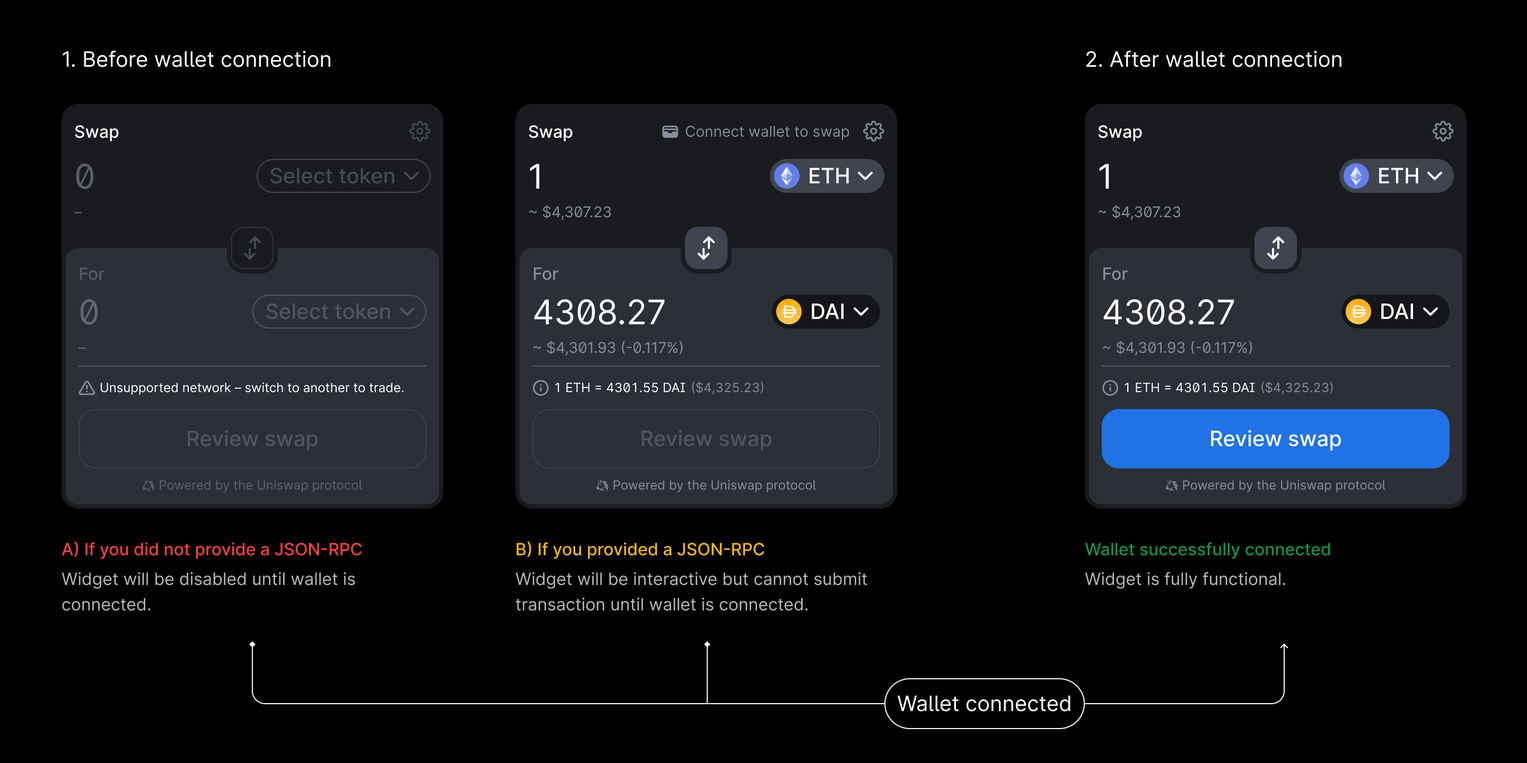
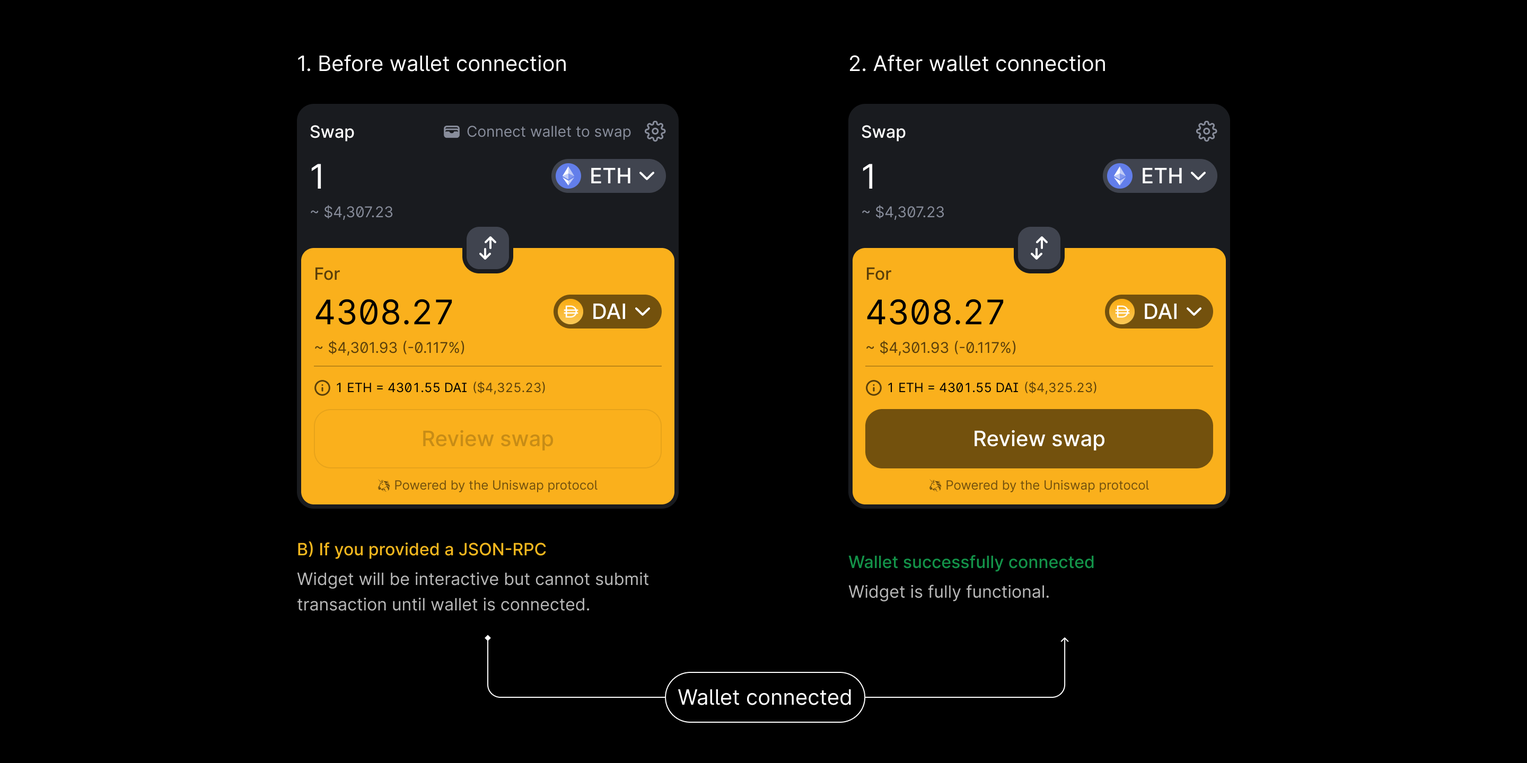
docs: [widgets] update to include built-in wallet connection flow (#407)
* docs: update widgets doc to describe built-in wallet connect functionality / web3 in a box. WIP

* widgets API reference update provider

* Update swap-widget docs to make provider & rpc endpoint optional

* Update API reference

* Add widgets-demo

* Add recommended provider, jsonRpc example

* Fix margins with live preview of widget

* Update

* Undo auto-lint changes

* Add note directing iframe integrators to swap widget

* Update states - light mode

* Update jsonRpcEndpoint prop + add defaultChainId prop

* update w3r github link

* rename onClickConnectWallet to onConnectWalletClick

* add hideConnectionUI bool prop

* add note about severe ratelimiting + unreliable of public RPCs

* update onConnectWalletClick

* nit

* fix width

* Add old API reference in deprecated page

* nit

diff --git a/SDK_versioned_docs/version-3.0.0/widgets/swap-widget-api.md b/SDK_versioned_docs/version-3.0.0/widgets/swap-widget-api.md
@@ -1,38 +1,40 @@
 ---
 id: swap-widget-api
-slug: swap-widget/api
-title: Swap Widget API Reference
+slug: swap-widget/api/v2
+title: Swap Widget API V2 Reference
 sidebar_label: API Reference
 sidebar_position: 3
 ---
 
-# Swap Widget API Reference
+# Swap Widget API V2 Reference
 
 <div className="widget-api">
 
-## Required Parameters {#required-parameters}
+## Recommended Parameters {#recommended-parameters}
 
-| Prop Name         | Prop Type | Default Value | Description                                                                                                                                                                                                                                                                                                                                                                              |
-| ----------------- | --------- | ------------- | ---------------------------------------------------------------------------------------------------------------------------------------------------------------------------------------------------------------------------------------------------------------------------------------------------------------------------------------------------------------------------------------- |
-| `jsonRpcEndpoint` | `string`  | `undefined`   | URI of your JSON-RPC endpoint. Strongly recommended in order to provide trade quotes prior to the user connecting a wallet. If none is provided, the widget will be completely disabled until the user connects a wallet. Once a wallet is connected, the widget will use the wallet’s JSON-RPC. See [Understanding the Swap Widget States](../swap-widget#understanding-widget-states). |
-| `provider`        | `any`     | `undefined`   | An [EIP-1193](https://eips.ethereum.org/EIPS/eip-1193) provider. This is required to swap.                                                                                                                                                                                                                                                                                               |
+| Prop Name       | Prop Type                              | Default Value                 | Description                                                                                                                                                                                                                                                                                                               |
+| --------------- | -------------------------------------- | ----------------------------- | ------------------------------------------------------------------------------------------------------------------------------------------------------------------------------------------------------------------------------------------------------------------------------------------------------------------------- |
+| `jsonRpcUrlMap` | `{ [chainId: number]: string[] }`      | `JSON_RPC_FALLBACK_ENDPOINTS` | Mapping of your JSON-RPC endpoint URLs indexed by chainId, used to provide trade quotes prior to the user connecting a wallet. If none is provided for a chain, the widget will fallback to public JSON-RPC endpoints, which are unreliable and rate-limited. See [JSON-RPC Endpoints](../swap-widget#json-rpc-endpoint). |
+| `provider`      | `JsonRpcProvider` or `Eip1193Provider` | `undefined`                   | An [EIP-1193](https://eips.ethereum.org/EIPS/eip-1193) provider. See [Web3 provider](../swap-widget#web3-provider).                                                                                                                                                                                                       |
 
 ## Optional Parameters {#optional-parameters}
 
-| Prop Name                   | Prop Type                     | Default Value           | Description                                                                                                                                                                                                                                                                                                                                                                                                                                                                                                                          |
-| --------------------------- | ----------------------------- | ----------------------- | ------------------------------------------------------------------------------------------------------------------------------------------------------------------------------------------------------------------------------------------------------------------------------------------------------------------------------------------------------------------------------------------------------------------------------------------------------------------------------------------------------------------------------------ |
-| `convenienceFee`            | `number`                      | `undefined`             | Optionally, you may charge a convenience fee on top of swaps executed through your web app. The allowed range is 1 to 100 basis points (inclusive of 100) consistent with the Uniswap v3 Periphery contract.                                                                                                                                                                                                                                                                                                                         |
-| `convenienceFeeRecipient`   | `{[chainId: number]: string}` | `undefined`             | The address to receive the convenience fee on each network. Required if `convenienceFee` is provided.                                                                                                                                                                                                                                                                                                                                                                                                                                |
-| `defaultInputTokenAddress`  | `{[chainId: number]: string}` | `string` or `'NATIVE'`  | Address of the token to be selected by default in the input field (e.g. USDC) for each network chain ID. If left empty the widget will use the native token of the connected chain as default. This can be explicitly defined by the special string `'NATIVE'`. For convenience you may pass a single string instead of a `chainId` mapping. In this case, the widget will assume that string corresponds to an L1 Ethereum address with `chaindId=1`. Any addresses provided in this parameter must be included in the `tokenList`. |
-| `defaultInputAmount`   | `number`                      | `0`                     | Default amount for the input field (e.g. 1 ETH). This value will respect the decimals of the `defaultInputTokenAddress`. This parameter is valid only if `defaultInputTokenAddress` is also set. This parameter is mutually exclusive with `defaultOutputAmount`, so you may set only one of `defaultInputAmount` and `defaultOutputAmount`.                                                                                                                                                                          |
-| `defaultOutputTokenAddress` | `{[chainId: number]: string}` | `string` or `undefined` | Address of the token to be selected by default in the input field (e.g. USDC) for each network chain ID. None if left empty. Any addresses provided in this parameter must be included in the `tokenList`.                                                                                                                                                                                                                                                                                                                           |
-| `defaultOutputAmount`  | `number`                      | `0`                     | Default amount for the input field (e.g. 100 USDC). This value will respect the decimals of the `defaultOutputTokenAddress`. This parameter is mutually exclusive with `defaultInputAmount`, so you may set only one of `defaultInputAmount` and `defaultOutputAmount`.                                                                                                                                                                                                                                               |
-| `locale`                    | `SupportedLocale`             | `en-US`                 | Specifies an explicit locale to use for the widget interface. This can be set to one of the values exported by the library in [`SUPPORTED_LOCALES`](https://github.com/Uniswap/widgets/blob/main/src/constants/locales.ts).                                                                                                                                                                                                                                                                                                        |
-| `onConnectWallet`           | `() => void`                  | `undefined`             | If passed, the “Connect your wallet” message will be clickable, and clicking it will trigger this handler function. This can be used to trigger your own wallet connection flow from the widget.                                                                                                                                                                                                                                                                                                                                     |
-| `onError`                   | `ErrorHandler`                | `undefined`             | An error handler which receives any errors that occur in the widget. This can be used for collecting error metrics.                                                                                                                                                                                                                                                                                                                                                                                                                  |
-| `theme`                     | `Theme`                       | `lightTheme`            | Specifies a custom theme (colors, font, and border radii). See [Customizing the Theme](../swap-widget#customizing-theme).                                                                                                                                                                                                                                                                                                                                                                                                            |
-| `tokenList`                 | `string`                      | `TokenInfo[]`           | Specifies the set of tokens that appear by default in the token selector list. Accepts either a URI of a token list as defined by the Token Lists standard, or an inline array of tokens. If none is provided, the Uniswap Labs default token list will be used. See [Customizing the Default Token List](../swap-widget#customizing-default-token-list).                                                                                                                                                                            |
-| `width`                     | `number` or `string`          | `360`                   | Specifies the width of the widget. If specified as a number, this is in pixels; otherwise, it is interpreted as a CSS `<length>` data type. Recommended width is 360px. Minimum width is 270px. See [Customizing the Width](../swap-widget#customizing-width).                                                                                                                                                                                                                                                                       |
+| Prop Name                   | Prop Type                                | Default Value           | Description                                                                                                                                                                                                                                                                                                                                                                                                                                                                                                                          |
+| --------------------------- | ---------------------------------------- | ----------------------- | ------------------------------------------------------------------------------------------------------------------------------------------------------------------------------------------------------------------------------------------------------------------------------------------------------------------------------------------------------------------------------------------------------------------------------------------------------------------------------------------------------------------------------------ |
+| `convenienceFee`            | `number`                                 | `undefined`             | Optionally, you may charge a convenience fee on top of swaps executed through your web app. The allowed range is 1 to 100 basis points (inclusive of 100) consistent with the Uniswap v3 Periphery contract.                                                                                                                                                                                                                                                                                                                         |
+| `convenienceFeeRecipient`   | `{[chainId: number]: string}`            | `undefined`             | The address to receive the convenience fee on each network. Required if `convenienceFee` is provided.                                                                                                                                                                                                                                                                                                                                                                                                                                |
+| `defaultChainId`            | `number`                                 | `1`                     | You may specify which chainId you want to prompt a user to connect their wallet to. [See a list of all chains supported on widget.](https://github.com/Uniswap/widgets/blob/main/src/constants/chains.ts#L4)                                                                                                                                                                                                                                                                                                                         |
+| `defaultInputTokenAddress`  | `{[chainId: number]: string}`            | `string` or `'NATIVE'`  | Address of the token to be selected by default in the input field (e.g. USDC) for each network chain ID. If left empty the widget will use the native token of the connected chain as default. This can be explicitly defined by the special string `'NATIVE'`. For convenience you may pass a single string instead of a `chainId` mapping. In this case, the widget will assume that string corresponds to an L1 Ethereum address with `chaindId=1`. Any addresses provided in this parameter must be included in the `tokenList`. |
+| `defaultInputAmount`        | `number`                                 | `0`                     | Default amount for the input field (e.g. 1 ETH). This value will respect the decimals of the `defaultInputTokenAddress`. This parameter is valid only if `defaultInputTokenAddress` is also set. This parameter is mutually exclusive with `defaultOutputTokenAmount`, so you may set only one of `defaultInputTokenAmount` and `defaultOutputTokenAmount`.                                                                                                                                                                          |
+| `defaultOutputTokenAddress` | `{[chainId: number]: string}`            | `string` or `undefined` | Address of the token to be selected by default in the input field (e.g. USDC) for each network chain ID. None if left empty. Any addresses provided in this parameter must be included in the `tokenList`.                                                                                                                                                                                                                                                                                                                           |
+| `defaultOutputAmount`       | `number`                                 | `0`                     | Default amount for the input field (e.g. 100 USDC). This value will respect the decimals of the `defaultOutputTokenAddress`. This parameter is mutually exclusive with `defaultInputTokenAmount`, so you may set only one `of defaultInputTokenAmount and` `defaultOutputTokenAmount`.                                                                                                                                                                                                                                               |
+| `hideConnectionUI`          | `boolean`                                | `false`                 | Hide the widget's built-in wallet connection UI, including the connected account chip & 'Connect wallet to swap' button.                                                                                                                                                                                                                                                                                                                                                                                                             |
+| `locale`                    | `SupportedLocale`                        | `en-US`                 | Specifies an explicit locale to use for the widget interface. This can be set to one of the values exported by the library in [`SUPPORTED_LOCALES`](https://github.com/Uniswap/widgets/blob/main/src/constants/locales.ts).                                                                                                                                                                                                                                                                                                          |
+| `onConnectWalletClick`      | `() => void` or `() => Promise<boolean>` | `undefined`             | If passed, allows you to add custom behavior when the user clicks on the 'Connect your wallet to swap' button. To manage displaying the widget's built-in wallet connection modal, return a resolved promise with `resolve(true/false)`.                                                                                                                                                                                                                                                                                             |
+| `onError`                   | `ErrorHandler`                           | `undefined`             | An error handler which receives any Javascript errors that occur in the widget. This can be used for collecting error metrics.                                                                                                                                                                                                                                                                                                                                                                                                       |
+| `theme`                     | `Theme`                                  | `lightTheme`            | Specifies a custom theme (colors, font, and border radii). See [Customizing the Theme](../swap-widget#customizing-theme).                                                                                                                                                                                                                                                                                                                                                                                                            |
+| `tokenList`                 | `string`                                 | `TokenInfo[]`           | Specifies the set of tokens that appear by default in the token selector list. Accepts either a URI of a token list as defined by the Token Lists standard, or an inline array of tokens. If none is provided, the Uniswap Labs default token list will be used. See [Customizing the Default Token List](../swap-widget#customizing-default-token-list).                                                                                                                                                                            |
+| `width`                     | `number` or `string`                     | `360`                   | Specifies the width of the widget. If specified as a number, this is in pixels; otherwise, it is interpreted as a CSS `<length>` data type. Recommended width is 360px. Minimum width is 300px. See [Customizing the Width](../swap-widget#customizing-width).                                                                                                                                                                                                                                                                       |
 
 ## Subscribing to Events
 

diff --git a/SDK_versioned_docs/version-3.0.0/widgets/swap-widget-api-v1.md b/SDK_versioned_docs/version-3.0.0/widgets/swap-widget-api-v1.md
@@ -1,0 +1,58 @@
+---
+id: swap-widget-api-v1
+slug: swap-widget/api/v1
+title: Swap Widget API V1 Reference
+sidebar_label: (Deprecated) V1 API Reference
+sidebar_position: 4
+---
+
+# Swap Widget API V1 Reference (Deprecated)
+
+<div className="widget-api">
+
+## Required Parameters {#required-parameters}
+
+| Prop Name         | Prop Type | Default Value | Description                                                                                                                                                                                                                                                                                                                                                                              |
+| ----------------- | --------- | ------------- | ---------------------------------------------------------------------------------------------------------------------------------------------------------------------------------------------------------------------------------------------------------------------------------------------------------------------------------------------------------------------------------------- |
+| `jsonRpcEndpoint` | `string`  | `undefined`   | URI of your JSON-RPC endpoint. Strongly recommended in order to provide trade quotes prior to the user connecting a wallet. If none is provided, the widget will be completely disabled until the user connects a wallet. Once a wallet is connected, the widget will use the wallet’s JSON-RPC. See [Understanding the Swap Widget States](../swap-widget#understanding-widget-states). |
+| `provider`        | `any`     | `undefined`   | An [EIP-1193](https://eips.ethereum.org/EIPS/eip-1193) provider. This is required to swap.                                                                                                                                                                                                                                                                                               |
+
+## Optional Parameters {#optional-parameters}
+
+| Prop Name                   | Prop Type                     | Default Value           | Description                                                                                                                                                                                                                                                                                                                                                                                                                                                                                                                          |
+| --------------------------- | ----------------------------- | ----------------------- | ------------------------------------------------------------------------------------------------------------------------------------------------------------------------------------------------------------------------------------------------------------------------------------------------------------------------------------------------------------------------------------------------------------------------------------------------------------------------------------------------------------------------------------ |
+| `convenienceFee`            | `number`                      | `undefined`             | Optionally, you may charge a convenience fee on top of swaps executed through your web app. The allowed range is 1 to 100 basis points (inclusive of 100) consistent with the Uniswap v3 Periphery contract.                                                                                                                                                                                                                                                                                                                         |
+| `convenienceFeeRecipient`   | `{[chainId: number]: string}` | `undefined`             | The address to receive the convenience fee on each network. Required if `convenienceFee` is provided.                                                                                                                                                                                                                                                                                                                                                                                                                                |
+| `defaultInputTokenAddress`  | `{[chainId: number]: string}` | `string` or `'NATIVE'`  | Address of the token to be selected by default in the input field (e.g. USDC) for each network chain ID. If left empty the widget will use the native token of the connected chain as default. This can be explicitly defined by the special string `'NATIVE'`. For convenience you may pass a single string instead of a `chainId` mapping. In this case, the widget will assume that string corresponds to an L1 Ethereum address with `chaindId=1`. Any addresses provided in this parameter must be included in the `tokenList`. |
+| `defaultInputAmount`        | `number`                      | `0`                     | Default amount for the input field (e.g. 1 ETH). This value will respect the decimals of the `defaultInputTokenAddress`. This parameter is valid only if `defaultInputTokenAddress` is also set. This parameter is mutually exclusive with `defaultOutputAmount`, so you may set only one of `defaultInputAmount` and `defaultOutputAmount`.                                                                                                                                                                                         |
+| `defaultOutputTokenAddress` | `{[chainId: number]: string}` | `string` or `undefined` | Address of the token to be selected by default in the input field (e.g. USDC) for each network chain ID. None if left empty. Any addresses provided in this parameter must be included in the `tokenList`.                                                                                                                                                                                                                                                                                                                           |
+| `defaultOutputAmount`       | `number`                      | `0`                     | Default amount for the input field (e.g. 100 USDC). This value will respect the decimals of the `defaultOutputTokenAddress`. This parameter is mutually exclusive with `defaultInputAmount`, so you may set only one of `defaultInputAmount` and `defaultOutputAmount`.                                                                                                                                                                                                                                                              |
+| `locale`                    | `SupportedLocale`             | `en-US`                 | Specifies an explicit locale to use for the widget interface. This can be set to one of the values exported by the library in [`SUPPORTED_LOCALES`](https://github.com/Uniswap/widgets/blob/main/src/constants/locales.ts).                                                                                                                                                                                                                                                                                                          |
+| `onConnectWallet`           | `() => void`                  | `undefined`             | If passed, the “Connect your wallet” message will be clickable, and clicking it will trigger this handler function. This can be used to trigger your own wallet connection flow from the widget.                                                                                                                                                                                                                                                                                                                                     |
+| `onError`                   | `ErrorHandler`                | `undefined`             | An error handler which receives any errors that occur in the widget. This can be used for collecting error metrics.                                                                                                                                                                                                                                                                                                                                                                                                                  |
+| `theme`                     | `Theme`                       | `lightTheme`            | Specifies a custom theme (colors, font, and border radii). See [Customizing the Theme](../swap-widget#customizing-theme).                                                                                                                                                                                                                                                                                                                                                                                                            |
+| `tokenList`                 | `string`                      | `TokenInfo[]`           | Specifies the set of tokens that appear by default in the token selector list. Accepts either a URI of a token list as defined by the Token Lists standard, or an inline array of tokens. If none is provided, the Uniswap Labs default token list will be used. See [Customizing the Default Token List](../swap-widget#customizing-default-token-list).                                                                                                                                                                            |
+| `width`                     | `number` or `string`          | `360`                   | Specifies the width of the widget. If specified as a number, this is in pixels; otherwise, it is interpreted as a CSS `<length>` data type. Recommended width is 360px. Minimum width is 270px. See [Customizing the Width](../swap-widget#customizing-width).                                                                                                                                                                                                                                                                       |
+
+## Subscribing to Events
+
+During the lifecycle of the swap widget, most of the events you will need are available on the web3 provider. For example, the below snippet shows how to listen for events when the wallet account changes or a new wallet connects. You can see more event examples in the [MetaMask](https://docs.metamask.io/guide/ethereum-provider.html) docs.
+
+```js
+// Subscribe to messages
+interface ProviderMessage {
+  type: string;
+  data: unknown;
+}
+
+ethereum.on(
+  'message',
+  handler: (message: ProviderMessage) => void
+);
+```
+
+</div>
+
+:::note Questions?
+Join the [Discord channel](https://discord.com/channels/597638925346930701/941447445844463676) to ask questions and get support from the Uniswap community.
+:::
